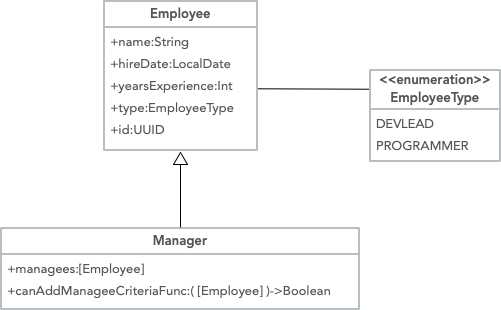
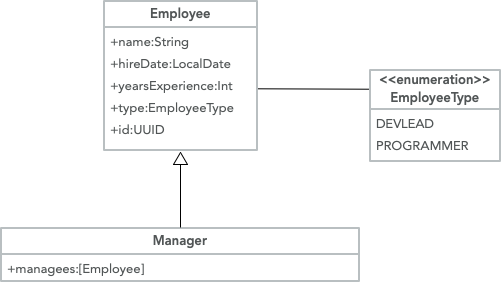
changd tasks for week 03 such that no lambda needed. Fixed typos in week05

Changed region(s): [[0.1796, 0.0284, 0.5389, 0.5957], [0.0, 0.7092, 0.7186, 0.9929], [0.509, 0.1986, 1.0, 0.5957]]

diff --git a/docs/week05/index.html b/docs/week05/index.html
@@ -49,15 +49,15 @@
 <header class="hero-image">
   <section class="hero-text">
     <h1>CSE 222b: Week 05</h1>
-    <p>\(\lambda\) Functions and Lambdas</p>
+    <p>Using and Creating \(\lambda\) Functions</p>
   </section>
 </header>
-	<h1>\(\lambda\) Functions and Lambdas</h1>
+	<h1>Using and Creating \(\lambda\) Functions</h1>
 	<p>
 		\(\lambda\) functions are a mathematical construct that computer science and computation in general 
-		has borrowed. You've used them before in your Python courses. You've also used them in Kotlin as lambdas 
-		when you did the <kbd>map</kbd>, <kbd>filter</kbd>, and <kbd>reduce</kbd> tasks. Now let's learn some more 
-		about them.
+		has borrowed. You've used them before in your Python courses. You've also used them in Kotlin 
+		when you used the <kbd>map</kbd>, <kbd>filter</kbd>, <kbd>reduce</kbd>, and <kbd>sort</kbd> higher order
+		functions. Now let's learn some more about them and how to use them.
     </p>
 	<h3>Storing Lambdas in Variables and Data Collections</h3>
 	<p>

diff --git a/docs/week03/provided_solution/task1/generate_data.kt b/docs/week03/provided_solution/task1/generate_data.kt
@@ -129,9 +129,7 @@ private fun buildManagers(numManagersNeeded:Int): ArrayList<Manager> {
     if (numManagersNeeded == 0){
         return ArrayList<Manager>()
     }
-    val aManager = Manager(randomName(), LocalDate.now(), (0..21).random().toShort(), EmployeeType.DEVLEAD){
-        it.count() <= 15
-    }
+    val aManager = Manager(randomName(), LocalDate.now(), (0..21).random().toShort(), EmployeeType.DEVLEAD)
     var managers = arrayListOf<Manager>(aManager)
     managers.addAll(buildManagers(numManagersNeeded - 1))
     return managers

diff --git a/docs/week03/provided_solution/task2/generate_data.kt b/docs/week03/provided_solution/task2/generate_data.kt
@@ -129,9 +129,7 @@ private fun buildManagers(numManagersNeeded:Int): ArrayList<Manager> {
     if (numManagersNeeded == 0){
         return ArrayList<Manager>()
     }
-    val aManager = Manager(randomName(), LocalDate.now(), (0..21).random().toShort(), EmployeeType.DEVLEAD){
-        it.count() <= 15
-    }
+    val aManager = Manager(randomName(), LocalDate.now(), (0..21).random().toShort(), EmployeeType.DEVLEAD)
     var managers = arrayListOf<Manager>(aManager)
     managers.addAll(buildManagers(numManagersNeeded - 1))
     return managers

diff --git a/docs/week03/provided_solution/task3/generate_data.kt b/docs/week03/provided_solution/task3/generate_data.kt
@@ -129,9 +129,7 @@ private fun buildManagers(numManagersNeeded:Int): ArrayList<Manager> {
     if (numManagersNeeded == 0){
         return ArrayList<Manager>()
     }
-    val aManager = Manager(randomName(), LocalDate.now(), (0..21).random().toShort(), EmployeeType.DEVLEAD){
-        it.count() <= 15
-    }
+    val aManager = Manager(randomName(), LocalDate.now(), (0..21).random().toShort(), EmployeeType.DEVLEAD)
     var managers = arrayListOf<Manager>(aManager)
     managers.addAll(buildManagers(numManagersNeeded - 1))
     return managers

diff --git a/docs/week03/provided_solution/task3/model.kt b/docs/week03/provided_solution/task3/model.kt
@@ -21,8 +21,7 @@ data class Employee(var name:String, val hireDate: LocalDate, var yearsExperienc
 
 
 
-data class Manager(var name:String, val hireDate:LocalDate, var yearsExperience:Short, var type:EmployeeType,
-                   var canAddManageeCriteriaFunc:((ArrayList<Employee>)->Boolean)){
+data class Manager(var name:String, val hireDate:LocalDate, var yearsExperience:Short, var type:EmployeeType){
     var employee = Employee(name, hireDate, yearsExperience, type)
     val managees = ArrayList<Employee>()
 }

diff --git a/docs/week03/provided_solution/task1/model.kt b/docs/week03/provided_solution/task1/model.kt
@@ -21,8 +21,7 @@ open class Employee(var name:String, val hireDate: LocalDate, var yearsExperienc
 
 
 
-class Manager(name:String, hireDate:LocalDate, yearsExperience:Short, type:EmployeeType,
-                   var canAddManageeCriteriaFunc:((ArrayList<Employee>)->Boolean)):Employee(name, hireDate, yearsExperience, type){
+class Manager(name:String, hireDate:LocalDate, yearsExperience:Short, type:EmployeeType):Employee(name, hireDate, yearsExperience, type){
     val managees = ArrayList<Employee>()
 
 }

diff --git a/docs/week03/provided_solution/task2/model.kt b/docs/week03/provided_solution/task2/model.kt
@@ -21,8 +21,7 @@ open class Employee(var name:String, val hireDate: LocalDate, var yearsExperienc
 
 
 
-class Manager(name:String, hireDate:LocalDate, yearsExperience:Short, type:EmployeeType,
-                   var canAddManageeCriteriaFunc:((ArrayList<Employee>)->Boolean)){
+class Manager(name:String, hireDate:LocalDate, yearsExperience:Short, type:EmployeeType){
     var employee = Employee(name, hireDate, yearsExperience, type)
     val managees = ArrayList<Employee>()
 

diff --git a/docs/week03/provided_solution/task1/control.kt b/docs/week03/provided_solution/task1/control.kt
@@ -21,7 +21,7 @@ import java.time.Period
 
 
 fun add(managee:Employee, to:Manager) {
-    if (!to.canAddManageeCriteriaFunc(to.managees)) {
+    if (to.managees.count() > 15) {
         throw AssignmentException("Error: violated add managee criteria")
     }
 

diff --git a/docs/week03/provided_solution/task2/control.kt b/docs/week03/provided_solution/task2/control.kt
@@ -20,7 +20,7 @@ import java.time.Period
 
 
 fun add(managee:Employee, to:Manager) {
-    if (!to.canAddManageeCriteriaFunc(to.managees)) {
+    if (to.managees.count() > 15) {
         throw AssignmentException("Error: violated add managee criteria")
     }
 

diff --git a/docs/week03/provided_solution/task3/control.kt b/docs/week03/provided_solution/task3/control.kt
@@ -20,7 +20,7 @@ import java.time.Period
 
 
 fun add(managee:Employee, to:Manager) {
-    if (!to.canAddManageeCriteriaFunc(to.managees)) {
+    if (to.managees.count() > 15) {
         throw AssignmentException("Error: violated add managee criteria")
     }
 
